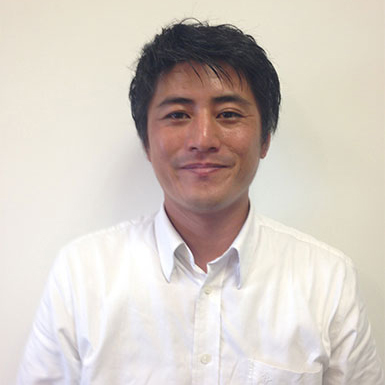
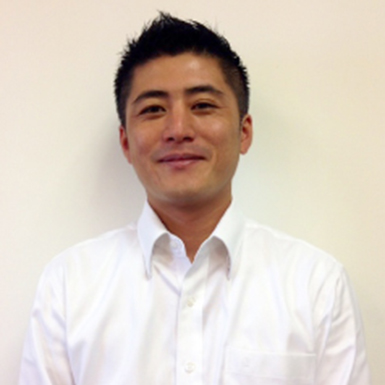
update site

diff --git a/propolife/wp-content/themes/themes/style.css b/propolife/wp-content/themes/themes/style.css
@@ -190,7 +190,7 @@ a.captionOrange:hover{color: #eb5100;text-decoration: underline;background-color
 .doc-footer{background-color:#41BDCE;margin-top: 15px;padding:15px 0px;color:#FFFFFF}
 .footer-title{color:#000000;font-size:18px;display: inline-block;margin:15px 0px;}
 .doc-footer ul li{display:inline;font-size: 15px;color: #000000;margin-bottom:20px;padding: 0px 10px;}
-.doc-footer ul li:first-child{border-right:solid 1px #000000}
+#.doc-footer ul li:first-child{border-right:solid 1px #000000}
 .doc-footer a{color:#FFFFFF}
 .doc-footer a.btn-default{color:#000000}
 .doc-footer address{background-color:#C6FF00;padding:10px;color:#000000;text-transform:uppercase;border-radius: 10px;}

diff --git a/propolife/wp-content/themes/themes/sidebar-staff.php b/propolife/wp-content/themes/themes/sidebar-staff.php
@@ -4,19 +4,25 @@
 <div class="col-lg-2 col-md-4 col-sm-4" align="center">
 <div><img src="<?php bloginfo( 'template_directory' );?>/images/people-2.jpg" class="img-circle img-responsive" /></div>
 <div style="" class="per-name">Mr. Suzuki Hideaki</div>
-<div><span class="per-pos">M</span>anager</div>
+<div>&nbsp;
+    <!-- <span class="per-pos">M</span>anager -->
+</div>
 </div>
 
 <div class="col-lg-2 col-md-4 col-sm-4" align="center">
 <div><img src="<?php bloginfo( 'template_directory' );?>/images/people-1.jpg" class="img-circle img-responsive" /></div>
-<div style="" class="per-name">Mr. Hà Thanh Trung</div>
-<div><span class="per-pos">A</span>rchitect</div>
+<div style="" class="per-name">Mr. Watanabe Masaru</div>
+<div>&nbsp;
+    <!-- <span class="per-pos">A</span>rchitect -->
+</div>
 </div>
 
 <div class="col-lg-2 col-md-4 col-sm-4" align="center">
 <div><img src="<?php bloginfo( 'template_directory' );?>/images/people-3.jpg" class="img-circle img-responsive" /></div>
 <div style="" class="per-name">Mr. Trần Chí Trung</div>
-<div><span class="per-pos">C</span>onstruction</div>
+<div>&nbsp;
+    <!-- <span class="per-pos">C</span>onstruction -->
+</div>
 </div>
 <div class="col-lg-3"></div>
 <?php }?>

diff --git a/propolife/wp-content/themes/themes/index.php b/propolife/wp-content/themes/themes/index.php
@@ -60,7 +60,7 @@ echo get_the_post_thumbnail(1,'full',array('class'=>'img-responsive','alt'=>$img
 <div class="thumb">
 <p style="padding:0px 40px;color:#000000" align="justify">プロポライフベトナムは、ベトナム進出時、進出後の様々な支援サービスをご提供して おります。会社設立、ライセンス取得から進出のトータルコーディネートまで、進出企業と働く方がベトナムで必要な環境造りをお手伝いしております。
 </p>
-<div class="tel"><?php echo $hl[0];?><br><?php echo $hl[1];?></div>
+<div class="tel"><?php echo $hl[0];?></div>
 <div class="fa-right"><i class="fa fa-angle-right fa-3x" style="color: #000000;"></i><div class="clearfix"></div></div>
 </div>
 </a>
@@ -170,7 +170,6 @@ echo get_the_post_thumbnail(1,'full',array('class'=>'img-responsive','alt'=>$img
 <address>Address: <?php echo $lienhe['diachigmap'];?></address>
 <div style="padding:0px 40px 40px 40px;color:#000000">
 <div><?php echo $hl[0];?></div>
-<div><?php echo $hl[1];?></div>
 </div>
 </div>
 </a>

diff --git a/propolife/wp-content/themes/themes/sidebar-main-menu.php b/propolife/wp-content/themes/themes/sidebar-main-menu.php
@@ -19,10 +19,17 @@ echo get_the_post_thumbnail(1,'full',array('class'=>'img-responsive','alt'=>$img
 </a>
 </h1>
 </div>
+
 <div class="collapse navbar-collapse navbar-right" id="navbar-collapse">
 <ul class="nav navbar-nav">
 <li><a href="<?php echo home_url();?>">ホーム</a></li>
-<li class="<?php echo get_post(4)->post_name;?>"><a href="<?php echo get_permalink(get_page_by_path('about'));?>"><?php echo get_the_title(4);?></a></li>
+
+<li class="<?php echo get_post(4)->post_name;?>"><a href="#" class="hidden-xs"><?php echo get_the_title(4);?></a>
+    <ul>
+        <li class="<?php echo get_post(4)->post_name;?>"><a href="<?php echo get_permalink(get_page_by_path('about'));?>"><?php echo get_the_title(4);?></a></li>
+        <li class="<?php echo get_post(1466)->post_name;?>"><a href="<?php echo get_permalink(get_page_by_path('recruitment'));?>"><?php echo get_the_title(1466);?></a></li>
+    </ul>
+</li>
 
 <li class="<?php echo get_post(11)->post_name;?>">
 <a href="#" class="hidden-xs"><?php echo get_the_title(11);?></a>

diff --git a/propolife/wp-content/themes/themes/sidebar-right.php b/propolife/wp-content/themes/themes/sidebar-right.php
@@ -1,6 +1,6 @@
 <?php global $lienhe;$dienthoai = explode(';',$lienhe['dienthoai']);$dt=explode('(',$dienthoai[1]);$listmail = explode(';',$lienhe['mail']);?>
 <?php if(is_page('about')){$dt=explode('(',$dienthoai[0]);}?>
-<?php if(is_tax('cat-chronicle') || is_singular('chronicle')){$dt=explode('(',$dienthoai[3]);}?>
+<?php if(is_tax('cat-chronicle') || is_singular('chronicle')){$dt=explode('(',$dienthoai[1]);}?>
 <?php if(is_page('support') || is_singular('support')){$dt=explode('(',$dienthoai[2]);?>
 <div class="list-group">
 <a href="#" class="list-group-item active"><h4 class="list-group-item-heading">ロータスサービス</h4></a>

diff --git a/propolife/wp-content/themes/themes/page-recruitment.php b/propolife/wp-content/themes/themes/page-recruitment.php
@@ -1,0 +1,16 @@
+<?php get_header();?>
+<header class="header" role="masthead"><div class="container"><?php get_sidebar('main-menu');?></div></header>
+<div class="effect">
+<div class="container align-top">
+<div class="row">
+<div class="col-md-9 col-sm-9 col-xs-12">
+    <h3 align="center" class="heading"><?php echo get_the_title(1466);?></h3>
+<?php while ( have_posts() ) : the_post(); the_content(); endwhile;?>
+
+</div>
+    <div class="col-lg-3 col-md-3 col-sm-3 col-xs-12"><?php get_sidebar('right');?></div>
+</div>
+</div>
+</div>
+
+<?php get_footer();?>

diff --git a/propolife/wp-content/themes/themes/footer.php b/propolife/wp-content/themes/themes/footer.php
@@ -13,7 +13,6 @@
 <address><?php echo $lienhe['diachigmap'];?></address>
 <ul>
 <li><?php echo $hl[0];?></li>
-<li><?php echo $hl[1];?></li>
 </ul>
 Copyright&nbsp;&copy;&nbsp;Propolife INC. ALL rights reserved.<span>2015</span>. <a href="http://propolife.co.jp" target="_blank">Privacy Policy</a>
 </div>
